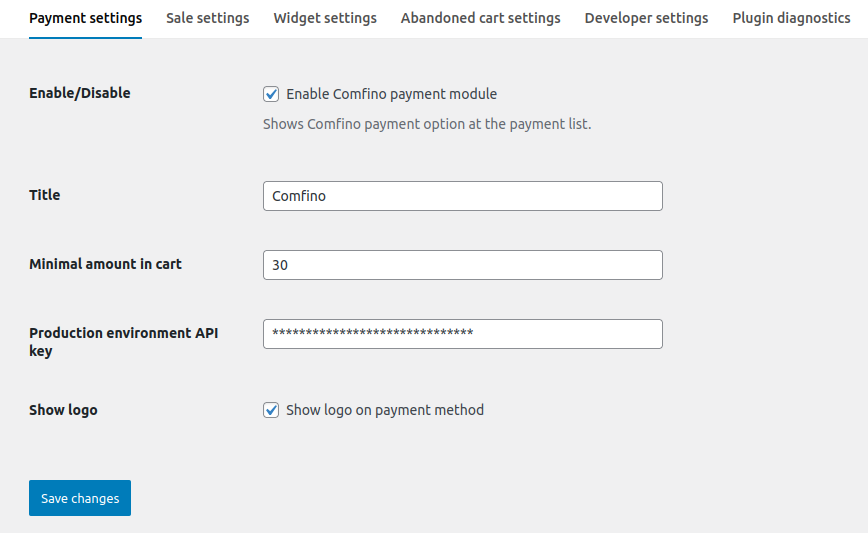
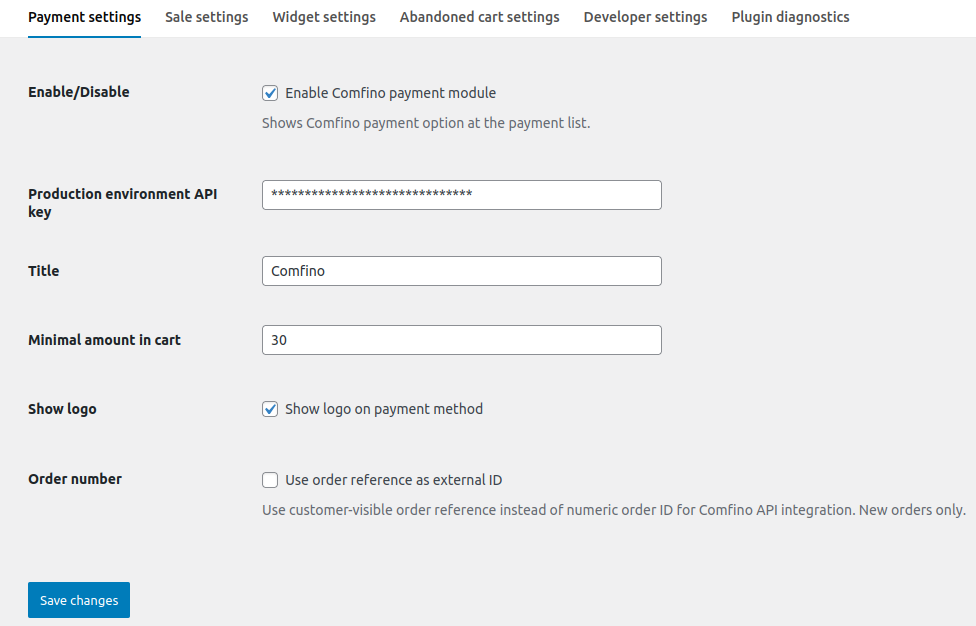
Fix payment settings section for pl and en docs with config1 images

diff --git a/docs/comfino.pl.md b/docs/comfino.pl.md
@@ -25,10 +25,11 @@ Pola parametrów konfiguracyjnych:
 **USTAWIENIA PŁATNOŚCI**
 
 * **Włączony/Wyłączony** — status aktywności modułu Comfino (widoczność na liście metod płatności w koszyku)
+* **Klucz API środowiska produkcyjnego** — unikalny klucz dostępowy umożliwiający komunikację modułu z API Comfino (otrzymasz go od przedstawiciela Comfino)
 * **Tytuł** — tekst wyświetlany na liście metod płatności (domyślnie `"Comfino"`)
 * **Minimalna kwota w koszyku** — kwota, powyżej której będzie wyświetlana płatność i widget Comfino
-* **Klucz API środowiska produkcyjnego** — unikalny klucz dostępowy umożliwiający komunikację modułu z API Comfino (otrzymasz go od przedstawiciela Comfino)
 * **Wyświetlanie logo** — status widoczności logo Comfino obok tytułu na liście metod płatności (domyślnie: włączone)
+* **Numer zamówienia** — Używaj numeru zamówienia widocznego dla klienta zamiast numerycznego ID zamówienia w komunikacji z API Comfino. Dotyczy tylko nowych zamówień.
 
 ![Konfiguracja](images/pl/configuration1.png "Konfiguracja")
 

diff --git a/docs/comfino.en.md b/docs/comfino.en.md
@@ -26,10 +26,11 @@ Configuration parameter fields:
 **PAYMENT SETTINGS**
 
 * **Enable/Disable** — activity status of the Comfino module (visibility on the list of payment methods in the basket)
+* **Production environment API key** — a unique access key that allows the module to communicate with the Comfino API (you will receive it from a Comfino representative)
 * **Title** — text displayed on the list of payment methods (default `"Comfino"`)
 * **Minimal amount in cart** — amount above which the Comfino payment and widget will be displayed
-* **Production environment API key** — a unique access key that allows the module to communicate with the Comfino API (you will receive it from a Comfino representative)
 * **Show logo** — visibility status of the Comfino logo next to the title at the list of payment methods (default: enabled)
+* **Order number** — Use customer-visible order reference instead of numeric order ID for Comfino API integration. New orders only.
 
 ![Configuration](images/en/configuration1.png "Configuration")
 
